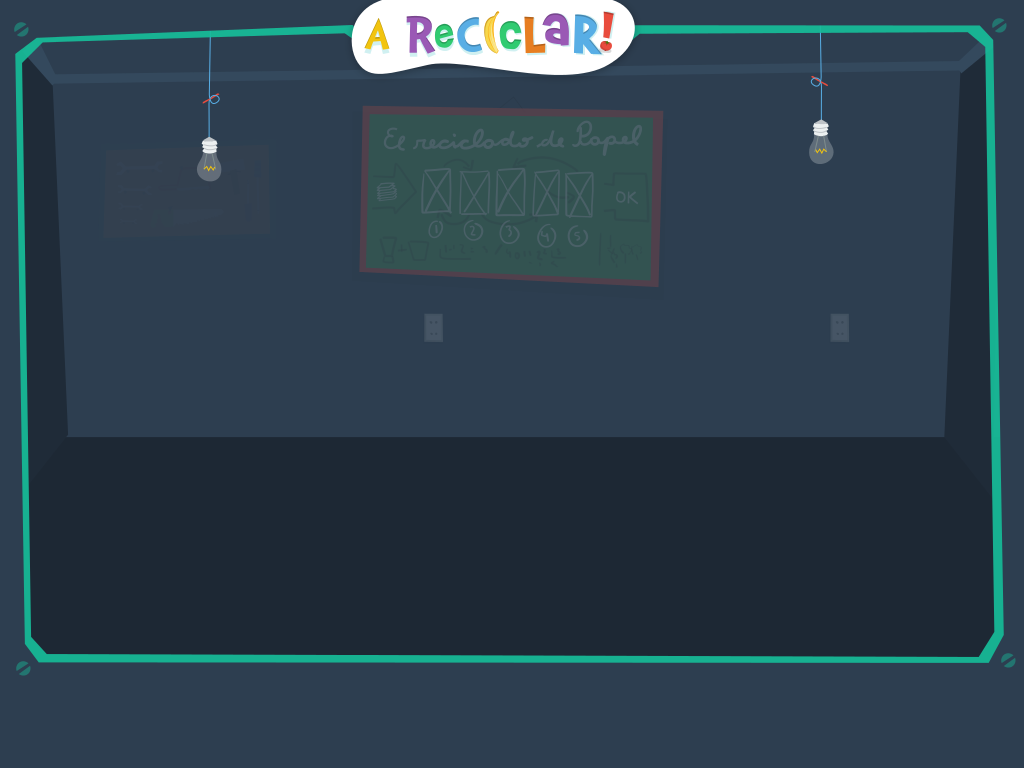
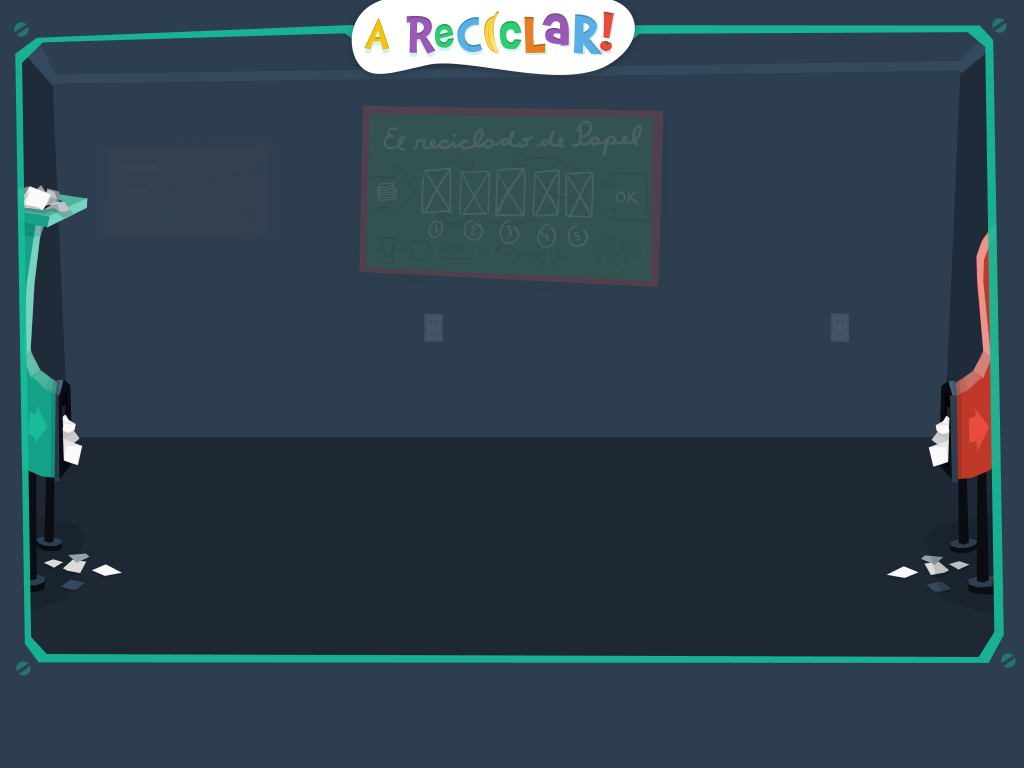
actualizados algunos fondos, y agregadas animaciones en varios lados

diff --git a/scripts/templates/scenes/brief/bioDigester.html b/scripts/templates/scenes/brief/bioDigester.html
@@ -27,15 +27,30 @@
 	-webkit-animation-timing-function: ease-in-out;
 }
 
+@-webkit-keyframes move-x {
+	0% { opacity:0; -webkit-transform: translate(0px, 0px)  }
+	50% { opacity:1;-webkit-transform:translate(200px, 0px) }
+	100% { opacity:0;-webkit-transform:translate(400px, 0px) }
+}
+
+#anim {
+	-webkit-animation-name: move-x;
+	-webkit-animation-duration:15s;
+	-webkit-transform-origin:50% 50%;
+	-webkit-animation-delay: 0s;
+	-webkit-animation-fill-mode: forwards;
+	-webkit-animation-timing-function: linear;
+}
+
 #BriefItems {
 	position:absolute;
-	top: 530px;
-	left : 245px;
+	top: 536px;
+	left : 0px;
 	opacity:0;
 	-webkit-animation-name: fadein;
 	-webkit-animation-duration: .5s;
 	-webkit-transform-origin:50% 50%;
-	-webkit-animation-delay: 1.5s;
+	-webkit-animation-delay: 1s;
 	-webkit-animation-fill-mode: forwards;
 	-webkit-animation-timing-function: ease-out;
 }
@@ -100,7 +115,9 @@
 	<div id="overlay" ></div>
 
 	<img src="images/scenes/brief/brief_biodigestor_titulo.png" id="BriefTitle"/>
-	<img src="images/scenes/brief/brief_biodigestor_items.png" id="BriefItems"/>
+	<div id="anim">
+		<img src="images/scenes/brief/brief_biodigestor_items.png" id="BriefItems"/>
+	</div>
 	<img src="images/scenes/brief/brief_biodigestor_monitor.png" id="BriefMonitor"/>
 	<img src="images/scenes/brief/brief_biodigestor_PH.png" id="BriefPH" />
 	

diff --git a/scripts/templates/scenes/brief/recyclingPlant.html b/scripts/templates/scenes/brief/recyclingPlant.html
@@ -44,17 +44,31 @@
 
 #BriefStartButton {
 	position:absolute;
-	top: 535px;
+	top: 545px;
 	left : 202px;
+	z-index:18;
 	opacity:0;
 	-webkit-animation-name: bubbleIn;
 	-webkit-animation-duration: .5s;
+	-webkit-transform-origin:50% 100%;
+	-webkit-animation-delay: 4.5s;
+	-webkit-animation-fill-mode: forwards;
+	-webkit-animation-timing-function: ease-in-out;
+}
+
+.enchufe {
+	position:absolute;
+	top: 668px;
+	left : 0px;
+	z-index:17;
+	opacity:0;
+	-webkit-animation-name: fadein;
+	-webkit-animation-duration: .2s;
 	-webkit-transform-origin:50% 100%;
 	-webkit-animation-delay: 4s;
 	-webkit-animation-fill-mode: forwards;
 	-webkit-animation-timing-function: ease-in-out;
 }
-
 
 .BriefScore {
 	display: none;
@@ -94,8 +108,11 @@
 	<img src="images/scenes/brief/brief_reciclador_maquinas.png" id="BriefItems"/>
 	<img src="images/scenes/brief/brief_reciclador_enchufe.png" id="BriefStartButton" />
 	
-	
 	<img src="images/scenes/brief/brief_puntos.png" class="BriefScore" />
 	<img src="images/scenes/brief/brief_tiempo.png" class="BriefTime" />
+	
+	<img src="images/actors/recyclingPlant/start.png" class="enchufe" />
+
+	
 </div>
 

diff --git a/scripts/scenes/recyclingPlant.js b/scripts/scenes/recyclingPlant.js
@@ -20,6 +20,8 @@ define(
 
 		prevScene.hide();
 
+		
+		
 		var $canvas = $( document.getElementById( 'canvas' ) );
 
 		$canvas.empty().append( briefHtml );
@@ -33,6 +35,20 @@ define(
 				
 				$canvas.empty().append( sceneDiv );
 
+				// ::::::::::::::::::::::::::::::: test ::::::::::::::::::::::::::::::: //
+				var lightbulb = document.createElement( 'img' );
+						lightbulb.className = 'lightbulb';
+						lightbulb.src = 'images/scenes/recyclingPlant/lightbulb.png';
+						$canvas.append( lightbulb );
+				
+				var lightbulb2 = document.createElement( 'img' );
+						lightbulb2.className = 'lightbulb';
+						lightbulb2.src = 'images/scenes/recyclingPlant/lightbulb.png';
+						lightbulb2.style.left  = '800px';
+						
+						$canvas.append( lightbulb2 );
+				// :::::::::::::::::::::::::: fin test BORRAR SI ESTA MAL :::::::::::::::::::::::::: //
+		
 				gaco.engine = new RecyclingPlantEngine();
 				gaco.engine.init();
 				gaco.engine.start();

diff --git a/styles/screen.css b/styles/screen.css
@@ -154,6 +154,11 @@ input:-moz-placeholder { color:rgba(255, 255, 255, .5); }
 	}
 	
 /* BRIEF ANIMATIONS DEFINITIONS */
+@-webkit-keyframes tictoc {	
+
+	0%,100% { -webkit-transform: rotate(-5deg);  } 
+	50% { -webkit-transform: rotate(5deg);  }  
+}
 
 
 .Shaker {
@@ -194,3 +199,16 @@ input:-moz-placeholder { color:rgba(255, 255, 255, .5); }
 	-webkit-animation-timing-function: ease-in-out;
 }
 
+.lightbulb {
+	width:27px;
+	height:153px;
+	position: absolute;
+	top: 32px ;
+	left: 256px;
+	
+	-webkit-animation-name: tictoc;
+	-webkit-animation-duration: 3s;
+	-webkit-transform-origin:50% 0%;
+	-webkit-animation-iteration-count: infinite;
+	-webkit-animation-timing-function: ease-in-out;
+}

diff --git a/scripts/scenes/intro.js b/scripts/scenes/intro.js
@@ -26,7 +26,9 @@ define( [ 'scullge/scenes/base', 'scenes/picker', 'data/context', 'text!template
 				gaco.audioManager.stopAll();
 			}
 			gaco.audioManager.play( 'bgmusicMenu', true );
-			
+
+			gaco.audioManager.play( 'menu_a_reciclar' ); // revisar esta linea no se donde iria el audio.
+
 			var $canvas = $( document.getElementById( 'canvas' ) ),
 				self = this;
 			
@@ -37,7 +39,6 @@ define( [ 'scullge/scenes/base', 'scenes/picker', 'data/context', 'text!template
 
 			$( '#introScene' ).fadeIn();
 			
-			gaco.audioManager.play( 'voces/menu_a_reciclar', true ); // revisar esta linea no se donde iria el audio.
 			
 			$( '#introBtnRanking' ).on( 'click', function()
 				{

diff --git a/scripts/actors/recyclingPlant/machine.js b/scripts/actors/recyclingPlant/machine.js
@@ -18,10 +18,10 @@ define( [ 'scullge/actor', 'scullge/utils/arrays', 'data/context', 'jqueryui' ],
 			this.updateMachine();
 
 			this.node = document.createElement( 'img' );
-			this.node.style.bottom = '160px';
+			this.node.style.bottom = '166px';
 			this.node.style.position = 'absolute';
 			this.node.src = CONTEXT_PATH + '/images/actors/process/' + this.machine.name + '.png';
-			this.node.style.left = ( 60 + this.properties.position * 180 ) + 'px';
+			this.node.style.left = ( 63 + this.properties.position * 174 ) + 'px';
 			recyclingPlant.appendChild( this.node );
 
 			$( this.node ).on( 'click', function()
